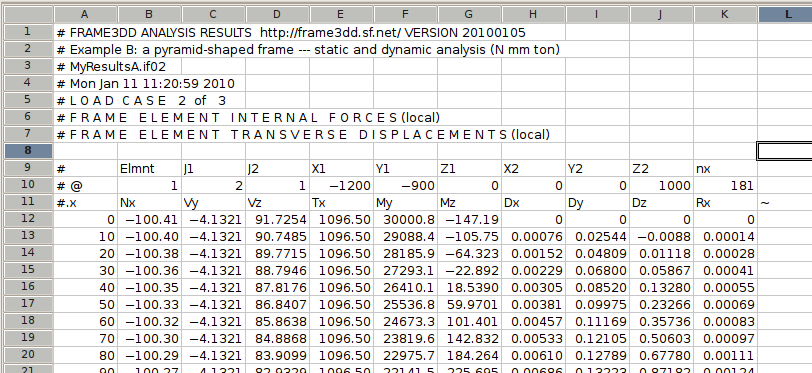
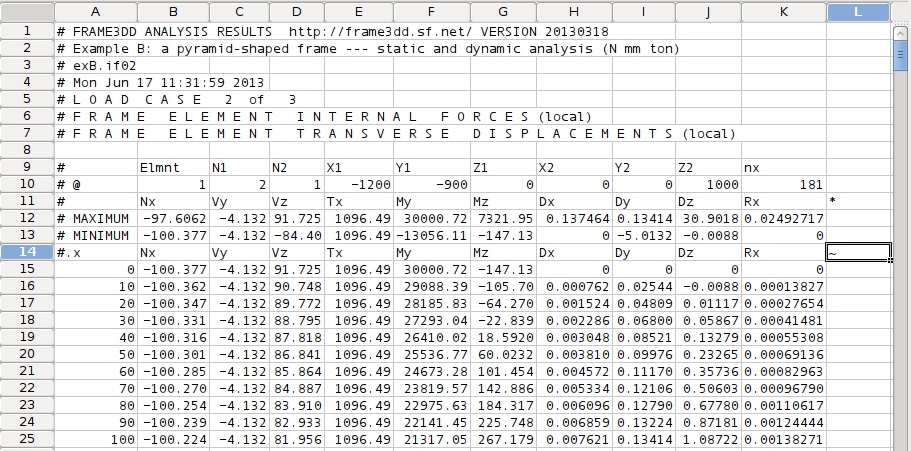
write max and min internal forces to *.if* internal force output data files

diff --git a/doc/user-manual.html b/doc/user-manual.html
@@ -1959,22 +1959,22 @@ In this example, the <i>x</i>-axis increment, <i>dx</i>, has a length of 10 mm.
 <img src="img/InternalForces.png" align="center" border="0"><br>
 
 <p>
-The header information for each frame element contains the element number
-(column B),
-the element's end nodes (columns C and D), the end node coordinates
-(columns E - J),
-and the number of <i>x</i>-axis increments for the frame element
-(column K).   
+The header information for each frame element contains the element number (column B),
+the element's end nodes (columns C and D), the end node coordinates (columns E - J),
+and the number of <i>x</i>-axis increments for the frame element (column K).   
+The header also includes a listing of the maximum and minimum internal forces and modments and the maximum and minimum element displacements.  
 The data for this part of the header information is preceded with a '@' character, to facilitate parsing of this data file.  
 The last header character prior to the the internal force data is a '~' character, again to facilitate parsing of the data. 
-In the figure above, <i>nx</i> is 181 (K,10), indicating
-that the following element data 
-is tabulated at 181 increments along the local <i>x</i>-axis.  
+In the figure above, <i>nx</i> is 181 (K,10), indicating that the following element data is tabulated at 181 increments along the local <i>x</i>-axis.  
 </p>
 
 <p>
-The data in this file is sufficient to plot the undeformed mesh, 
-the deformed mesh, and plots of internal forces, torisons, and moments
+The computation of internal element forces is consistent with linear elastic analysis.   
+Internal forces and displacements will have some error if geoemetric stiffness effects are significant, and are included in the analysis.
+</p>
+
+<p>
+The data in this file is sufficient to plot the undeformed mesh, the deformed mesh, and plots of internal forces, torisons, and moments
 super-imposed upon the structural mesh.
 </p>
 
@@ -1982,8 +1982,7 @@ super-imposed upon the structural mesh.
 The sign convention for internal forces and transverse displacements is as follows:
 <ul>
 <li> Positive internal axial force (Nx) is tensile.
-<li> Positive internal shear forces (Vy and Vz) are in the positive <i>y</i> and <i>z</i>
-directions on positive <i>x</i> surfaces.
+<li> Positive internal shear forces (Vy and Vz) are in the positive <i>y</i> and <i>z</i> directions on positive <i>x</i> surfaces.
 <li> Positive internal torsion (Tx) is counter-clockwise about the positive <i>x</i>-axis.  
 <li> Positive bending moments (My and Mz) produce positive curvature bending deformation in the <i>x-z</i> and <i>x-y</i> planes.  
 <li> Positive transverse displacements (Dy and Dz) are in the positive <i>y</i>

diff --git a/src/frame3dd_io.c b/src/frame3dd_io.c
@@ -2379,6 +2379,16 @@ void write_internal_forces (
 		*Dx, *Dy, *Dz,	/* frame el. displ. in local x,y,z, dir's */
 		*Rx;		/* twist rotation about the local x-axis */
 
+	double	maxNx, maxVy, maxVz, 	/*  maximum internal forces	*/
+		maxTx, maxMy, maxMz,	/*  maximum internal moments	*/
+		maxDx, maxDy, maxDz,	/*  maximum element displacements  */
+		maxRx;			/*  maximum element torsion	*/
+
+	double	minNx, minVy, minVz, 	/*  minimum internal forces	*/
+		minTx, minMy, minMz,	/*  minimum internal moments	*/
+		minDx, minDy, minDz,	/*  minimum element displacements  */
+		minRx;			/*  minimum element torsion	*/
+
 	int	n, m,		/* frame element number			*/
 		cU=0, cW=0, cP=0, /* counters for U, W, and P loads	*/
 		i, nx,		/* number of sections alont x axis	*/
@@ -2435,6 +2445,7 @@ void write_internal_forces (
 		Dy = dvector(0,nx);
 		Dz = dvector(0,nx);
 
+
 	// the local x-axis for frame element "m" starts at 0 and ends at L[m]
 		for (i=0; i<nx; i++)	x[i] = i*dx;	
 		x[nx] = L[m];		
@@ -2442,9 +2453,8 @@ void write_internal_forces (
 
 	// write header information for each frame element
 
-		fprintf(fpif,"#\tElmnt\tJ1\tJ2\t\tX1\t\tY1\t\tZ1\t\tX2\t\tY2\t\tZ2\tnx\n");
+		fprintf(fpif,"#\tElmnt\tN1\tN2        \tX1        \tY1        \tZ1        \tX2        \tY2        \tZ2\tnx\n");
 		fprintf(fpif,"# @\t%5d\t%5d\t%5d\t%14.6e\t%14.6e\t%14.6e\t%14.6e\t%14.6e\t%14.6e\t%5d\n",m, n1, n2, xyz[n1].x, xyz[n1].y, xyz[n1].z, xyz[n2].x, xyz[n2].y, xyz[n2].z, nx+1 );
-		fprintf(fpif,"#.x\t\t\tNx\t\tVy\t\tVz\t\tTx\t\tMy\t\tMz\t\tDx\t\tDy\t\tDz\t\tRx\t~\n");
 
 	// find interior axial force, shear forces, torsion and bending moments
 
@@ -2588,12 +2598,12 @@ void write_internal_forces (
 
 
 		// rotations and displacements for frame element "m" at (x=0)
-		Dx[0] =  u1;	// displacement in  local x dir  at node J1
-		Dy[0] =  u2;	// displacement in  local y dir  at node J1
-		Dz[0] =  u3;	// displacement in  local z dir  at node J1
-		Rx[0] =  u4;	// rotationin about local x axis at node J1
-		Sy[0] =  u6;	// slope in  local y  direction  at node J1
-		Sz[0] = -u5;	// slope in  local z  direction  at node J1
+		Dx[0] =  u1;	// displacement in  local x dir  at node N1
+		Dy[0] =  u2;	// displacement in  local y dir  at node N1
+		Dz[0] =  u3;	// displacement in  local z dir  at node N1
+		Rx[0] =  u4;	// rotationin about local x axis at node N1
+		Sy[0] =  u6;	// slope in  local y  direction  at node N1
+		Sz[0] = -u5;	// slope in  local z  direction  at node N1
 
 		// axial displacement along frame element "m"
 		dx_ = dx;
@@ -2648,8 +2658,49 @@ void write_internal_forces (
 			Dz[i] -= (Dz[nx]-u9) * i/nx;
 		}
 
+	// initialize the maximum and minimum element forces and displacements 
+		maxNx = minNx = Nx[0]; maxVy = minVy = Vy[0]; maxVz = minVz = Vz[0];  	//  maximum internal forces
+		maxTx = minTx = Tx[0]; maxMy = minMy = My[0]; maxMz = minMz = Mz[0]; 	//  maximum internal moments
+		maxDx = minDx = Dx[0]; maxDy = minDy = Dy[0]; maxDz = minDz = Dz[0]; 	//  maximum element displacements
+		maxRx =	minRx = Rx[0];							//  maximum element torsional rotation
+
+	// find maximum and minimum internal element forces
+		for (i=1; i<=nx; i++) {
+			maxNx = (Nx[i] > maxNx) ? Nx[i] : maxNx;
+			minNx = (Nx[i] < minNx) ? Nx[i] : minNx;
+			maxVy = (Vy[i] > maxVy) ? Vy[i] : maxVy;
+			minVy = (Vy[i] < minVy) ? Vy[i] : minVy;
+			maxVz = (Vz[i] > maxVz) ? Vz[i] : maxVz;
+			minVz = (Vz[i] < minVz) ? Vz[i] : minVz;
+
+			maxTx = (Tx[i] > maxTx) ? Tx[i] : maxTx;
+			minTx = (Tx[i] < minTx) ? Tx[i] : minTx;
+			maxMy = (My[i] > maxMy) ? My[i] : maxMy;
+			minMy = (My[i] < minMy) ? My[i] : minMy;
+			maxMz = (Mz[i] > maxMz) ? Mz[i] : maxMz;
+			minMz = (Mz[i] < minMz) ? Mz[i] : minMz;
+		}
+
+	// find maximum and minimum internal element displacements
+		for (i=1; i<=nx; i++) {
+			maxDx = (Dx[i] > maxDx) ? Dx[i] : maxDx;
+			minDx = (Dx[i] < minDx) ? Dx[i] : minDx;
+			maxDy = (Dy[i] > maxDy) ? Dy[i] : maxDy;
+			minDy = (Dy[i] < minDy) ? Dy[i] : minDy;
+			maxDz = (Dz[i] > maxDz) ? Dz[i] : maxDz;
+			minDz = (Dz[i] < minDz) ? Dz[i] : minDz;
+			maxRx = (Rx[i] > maxRx) ? Rx[i] : maxRx;
+			minRx = (Rx[i] < minRx) ? Rx[i] : minRx;
+		}
+
+	// write max and min element forces to the internal frame element force output data file
+		fprintf(fpif,"#                \tNx        \tVy        \tVz        \tTx        \tMy        \tMz        \tDx        \tDy        \tDz         \tRx\t*\n");
+		fprintf(fpif,"# MAXIMUM\t%14.6e\t%14.6e\t%14.6e\t%14.6e\t%14.6e\t%14.6e\t%14.6e\t%14.6e\t%14.6e\t%14.6e\n", maxNx,maxVy,maxVz,maxTx,maxMy,maxMz,maxDx,maxDy,maxDz,maxRx );
+		fprintf(fpif,"# MINIMUM\t%14.6e\t%14.6e\t%14.6e\t%14.6e\t%14.6e\t%14.6e\t%14.6e\t%14.6e\t%14.6e\t%14.6e\n", minNx,minVy,minVz,minTx,minMy,minMz,minDx,minDy,minDz,minRx );
+
 
 	// write results to the internal frame element force output data file
+		fprintf(fpif,"#.x                \tNx        \tVy        \tVz        \tTx       \tMy        \tMz        \tDx        \tDy        \tDz        \tRx\t~\n");
 		for (i=0; i<=nx; i++) {
 			fprintf(fpif,"%14.6e\t", x[i] );
 			fprintf(fpif,"%14.6e\t%14.6e\t%14.6e\t",
